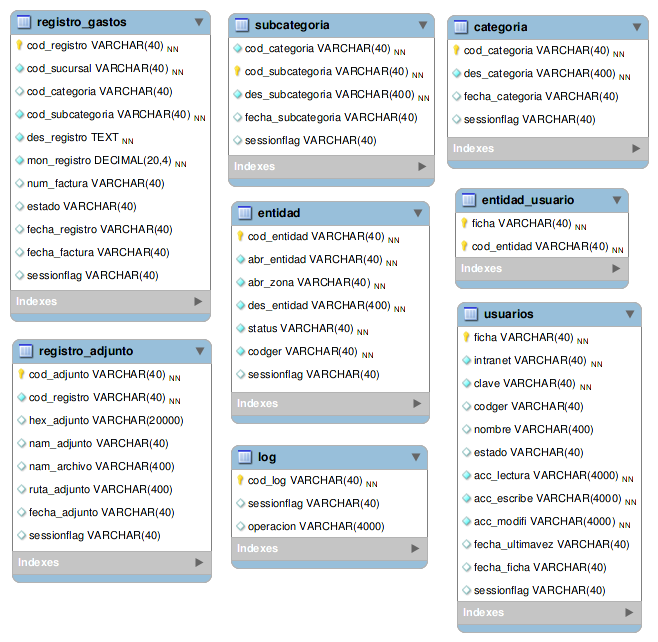
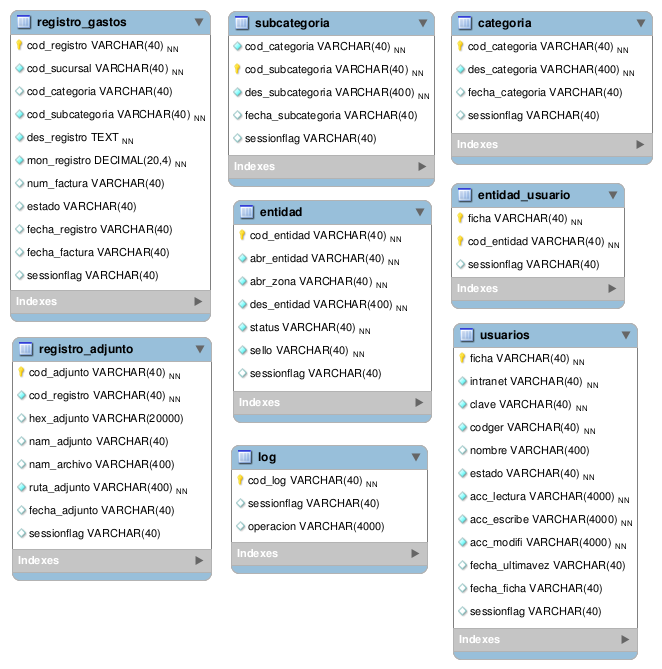
* terminada #451 cierra #451 finaliza #451 * cambio de refrerencia de sello a codger, dado no hay sellos para todas las entidades * la explicacion se da en la tarea #451 se altera la db apra que use cod_entidad como codger * se elimina codger de las tablas entidad y se adosa sello como un campo extr

diff --git a/sysgastosweb/simplegastoswebphp/appweb/controllers/cargargastover.php b/sysgastosweb/simplegastoswebphp/appweb/controllers/cargargastover.php
@@ -74,7 +74,7 @@ class Cargargastover extends CI_Controller {
 		/* cargar y listaar las UBIUCACIONES que se usaran para registros */
 			$sqlentidad = "
 			select
-			 abr_entidad, abr_zona, des_entidad, codger,
+			 abr_entidad, abr_zona, des_entidad, 
 			 ifnull(cod_entidad,'99999999999999') as cod_entidad,      -- YYYYMMDDhhmmss
 			 ifnull(des_entidad,'sin_descripcion') as des_entidad
 			from entidad
@@ -119,7 +119,7 @@ class Cargargastover extends CI_Controller {
 		$this->load->helper('url');
 		$sqlreportegasto = "SELECT
               `registro_gastos`.`cod_registro`, `registro_adjunto`.`cod_adjunto`,
-              `registro_gastos`.`cod_sucursal`,
+              `registro_gastos`.`cod_entidad`,
               `registro_gastos`.`cod_categoria`, `registro_gastos`.`cod_subcategoria`,
               `categoria`.`des_categoria`, `subcategoria`.`des_subcategoria`,
               `registro_gastos`.`des_registro`, `registro_gastos`.`mon_registro`,
@@ -138,7 +138,7 @@ class Cargargastover extends CI_Controller {
             LEFT JOIN
              `categoria` ON  `categoria`.`cod_categoria` = `registro_gastos`.`cod_categoria`
             LEFT JOIN
-             `entidad` ON  `entidad`.`cod_entidad` = `registro_gastos`.`cod_sucursal`
+             `entidad` ON  `entidad`.`cod_entidad` = `registro_gastos`.`cod_entidad`
             WHERE
              ifnull(`registro_gastos`.`cod_registro`,'') <> '' and `registro_gastos`.`cod_registro` <> ''
             ";
@@ -160,7 +160,7 @@ class Cargargastover extends CI_Controller {
 	    $crud->basic_model->set_custom_query($sqlreportegasto);
 		//$crud->columns('cod_categoria','des_categoria','fecha_categoria','sessionflag');
 		$crud->display_as('cod_registro','Cod. Gasto')
-			 ->display_as('cod_sucursal','Cod. Sello')
+			 ->display_as('cod_entidad','Cod. CodGer')
 			 ->display_as('cod_categoria','Cod. Categoria')
 			 ->display_as('cod_subcategoria','Cod. Concepto')
 			 ->display_as('des_categoria','Categoria')
@@ -170,7 +170,7 @@ class Cargargastover extends CI_Controller {
 			 ->display_as('num_factura','Factura (opt)')
 			 ->display_as('sessionflag','Modificado');
 		$crud->set_subject('Registros');
-	    $crud->edit_fields('des_registro','mon_registro','num_factura','cod_registro','cod_sucursal','cod_categoria','cod_subcategoria','sessionflag');
+	    $crud->edit_fields('des_registro','mon_registro','num_factura','cod_registro','cod_entidad','cod_categoria','cod_subcategoria','sessionflag');
 	    $crud->unset_add();
 	    $crud->unset_delete();
 		$currentState = $crud->getState();
@@ -187,7 +187,7 @@ class Cargargastover extends CI_Controller {
 		else if ($currentState == 'edit')
 		{
 			$crud->field_type('cod_registro', 'readonly');
-			$crud->field_type('cod_sucursal', 'readonly');
+			$crud->field_type('cod_entidad', 'readonly');
 			$crud->field_type('cod_categoria', 'readonly');
 			$crud->field_type('cod_subcategoria', 'readonly');
 			$crud->set_rules('des_registro', 'Descripcion', 'trim|required|alphanumeric');

diff --git a/sysgastosweb/simplegastoswebphp/appweb/controllers/cargargasto.php b/sysgastosweb/simplegastoswebphp/appweb/controllers/cargargasto.php
@@ -73,7 +73,7 @@ class Cargargasto extends CI_Controller {
 		/* cargar y listaar las UBIUCACIONES que se usaran para registros */
 		$sqlentidad = "
 		select
-		 abr_entidad, abr_zona, des_entidad, codger,
+		 abr_entidad, abr_zona, des_entidad, 
 		 ifnull(cod_entidad,'99999999999999') as cod_entidad,      -- YYYYMMDDhhmmss
 		 ifnull(des_entidad,'sin_descripcion') as des_entidad
 		from entidad
@@ -149,7 +149,7 @@ class Cargargasto extends CI_Controller {
             $sqlregistrargasto = "
             INSERT INTO registro_gastos
 			(
-			   cod_registro, cod_sucursal,
+			   cod_registro, cod_entidad,
 			   cod_subcategoria, cod_categoria,
 			   des_registro,
 			   mon_registro,
@@ -204,7 +204,7 @@ class Cargargasto extends CI_Controller {
 			SELECT
 			  registro_gastos.cod_registro,
 			  registro_adjunto.cod_adjunto,
-			  registro_gastos.cod_sucursal,
+			  registro_gastos.cod_entidad,
 			  registro_gastos.cod_categoria,
 			  registro_gastos.cod_subcategoria,
 			  registro_gastos.des_registro,
@@ -230,7 +230,7 @@ class Cargargasto extends CI_Controller {
 			LEFT JOIN	 gastossystema.categoria
 			ON	 categoria.cod_categoria = registro_gastos.cod_categoria
 			LEFT JOIN	 gastossystema.entidad
-			ON	 entidad.cod_entidad = registro_gastos.cod_sucursal
+			ON	 entidad.cod_entidad = registro_gastos.cod_entidad
 			WHERE	 ifnull(registro_gastos.cod_registro,'') <> '' and registro_gastos.cod_registro <> ''
 			ORDER BY cod_registro DESC	LIMIT 5";
 //--			 and cod_registro = '".$cod_registro." '
@@ -250,7 +250,7 @@ class Cargargasto extends CI_Controller {
 			'Adjunto'
 			// 	'fecha_factura', 	'fecha_adjunto',	'sessionflag'	'num_factura',
 			//	'hex_adjunto', 'nam_adjunto',// TODO : link para visualizar
-			//'cod_registro', 'cod_adjunto', 'cod_sucursal', 'cod_categoria', 'cod_subcategoria'
+			//'cod_registro', 'cod_adjunto', 'cod_entidad', 'cod_categoria', 'cod_subcategoria'
 		);
 		$resultadocargatablatxtmsg = "| cod_producto \t| can_despachar \t| des_producto \t\t".PHP_EOL;
 		$resultadocargatabla = $resultadocarga->result_array();
@@ -266,7 +266,7 @@ class Cargargasto extends CI_Controller {
 			$rowtable['nam_adjunto']
 			// $rowtable['fecha_factura'], $rowtable['fecha_adjunto'], $rowtable['sessionflag'],$rowtable['num_factura'],
 			//$rowtable['hex_adjunto'], $rowtable['nam_adjunto'], // TODO: link para descargar / visualizar
-			//$rowtable['cod_registro'], $rowtable['cod_adjunto'], $rowtable['cod_sucursal'], $rowtable['cod_categoria'], $rowtable['cod_subcategoria']
+			//$rowtable['cod_registro'], $rowtable['cod_adjunto'], $rowtable['cod_entidad'], $rowtable['cod_categoria'], $rowtable['cod_subcategoria']
 			);
 
 /*			$resultadocargatablatxtmsg .=

diff --git a/sysgastosweb/simplegastoswebphp/appweb/controllers/admusuariosentidad.php b/sysgastosweb/simplegastoswebphp/appweb/controllers/admusuariosentidad.php
@@ -64,8 +64,8 @@ class admusuariosentidad extends CI_Controller {
 		$js_files = $output1->js_files + $output2->js_files;
 		$css_files = $output1->css_files + $output2->css_files;
 		$output = ""
-		."<h3>Usuarios</h3>".$output1->output
-		."<h3>Sucursales</h3>".$output2->output
+		."<h3>Administrar Usuarios</h3>".$output1->output
+		."<h3>Centro de Costos</h3>".$output2->output
 		."";
 
 		$this->_esputereport((object)array(
@@ -83,6 +83,7 @@ class admusuariosentidad extends CI_Controller {
 		$crud->display_as('ficha','Ficha/CI')
 			 ->display_as('nombre','Nombre')
 			 ->display_as('intranet','Intranet')
+			 ->display_as('sucursal','Centro de Costo')
 			 ->display_as('fecha_ficha','Creado')
 			 ->display_as('fecha_ultimavez','Ultima vez')
 			 ->display_as('acc_lectura','Accede a')
@@ -130,7 +131,7 @@ class admusuariosentidad extends CI_Controller {
 		$crud->set_table('entidad');
 		$crud->set_subject('Sucursal');
 		$crud->columns('abr_entidad','abr_zona','cod_entidad','des_entidad','status','nam_usuario','codger','sessionflag');
-		$crud->display_as('cod_entidad','Cod. Sello')
+		$crud->display_as('cod_entidad','Cod. Centro')
 			 ->display_as('abr_entidad','Cod. Siglas')
 			 ->display_as('abr_zona','Cod. Zona')
 			 ->display_as('des_entidad','Nombre')
@@ -143,7 +144,7 @@ class admusuariosentidad extends CI_Controller {
 		$currentState = $crud->getState();
 		if($currentState == 'add')
 		{
-			$crud->set_rules('cod_entidad', 'Sello', 'trim|required|numeric');
+			$crud->set_rules('cod_entidad', 'Centro de Costo (codger)', 'trim|required|numeric');
 			$crud->set_rules('abr_entidad', 'Siglas', 'trim|required|alphanumeric');
 		}
 		else if ($currentState == 'edit')

diff --git a/sysgastosweb/simplegastoswebphp/appweb/views/cargargastover.php b/sysgastosweb/simplegastoswebphp/appweb/views/cargargastover.php
@@ -11,7 +11,7 @@
 
 	// si variables vacias llenar con datos mientras tanto
 	if( !isset($accionejecutada) ) $accionejecutada = 'cargardatosver';
-	if( !isset($list_entidad) ) $list_entidad = array('cod_sucursal' => 'nombregalpon','cod_sucursal2' => 'nombregalpon2');
+	if( !isset($list_entidad) ) $list_entidad = array('cod_entidad' => 'nombregalpon','cod_entidad2' => 'nombregalpon2');
 	if( !isset($list_categoria) ) $list_categoria = array('cod_categoria' => 'Varios','cod_categoria2' => 'Gastos diversos');
 	if( !isset($list_subcategoria) ) $list_subcategoria = array('cod_categoria' => 'Varios','cod_categoria2' => 'Gastos diversos');
 	// detectar que mostrar segun lo enviado desde el controlador
@@ -25,7 +25,7 @@
 			$this->table->add_row('Filto Fecha desde:',form_input($valoresinputfechaini).br().PHP_EOL);
 			$this->table->add_row('Filto Fecha hasta:',form_input($valoresinputfechafin).br().PHP_EOL);
 			$this->table->add_row('Por Categoria/Concepto:', form_dropdown('cod_subcategoria', $list_subcategoria).br().PHP_EOL);
-			$this->table->add_row('Pertenencia o sucursal:', form_dropdown('cod_entidad', $list_entidad).'(automatico)'.br().PHP_EOL );
+			$this->table->add_row('Por Centro de Costo:', form_dropdown('cod_entidad', $list_entidad).'(automatico)'.br().PHP_EOL );
 			$this->table->add_row('Monto menor o igual', form_input('mon_registroigual','').br().PHP_EOL);
 			$this->table->add_row('Monto mayor o igual', form_input('mon_registromayor','').br().PHP_EOL);
 			$this->table->add_row('Descripcion del detalle :', form_input('des_registrolike','').br().PHP_EOL);

diff --git a/sysgastosweb/simplegastoswebphp/appweb/views/cargargasto.php b/sysgastosweb/simplegastoswebphp/appweb/views/cargargasto.php
@@ -8,7 +8,7 @@
 
 	// si variables vacias llenar con datos mientras tanto
 	if( !isset($accionejecutada) ) $accionejecutada = 'cargardatos';
-	if( !isset($list_entidad) ) $list_entidad = array('cod_sucursal' => 'nombregalpon','cod_sucursal2' => 'nombregalpon2');
+	if( !isset($list_entidad) ) $list_entidad = array('cod_entidad' => 'nombregalpon','cod_entidad2' => 'nombregalpon2');
 	if( !isset($list_categoria) ) $list_categoria = array('cod_categoria' => 'Varios','cod_categoria2' => 'Gastos diversos');
 	if( !isset($list_subcategoria) ) $list_subcategoria = array('cod_categoria' => 'Varios','cod_categoria2' => 'Gastos diversos');
 	// detectar que mostrar segun lo enviado desde el controlador
@@ -21,7 +21,7 @@
 		$this->table->clear();
 			$this->table->add_row('Fecha del gasto:',form_input($valoresinputfecha).'(no mas de 3 dias atras)'.br().PHP_EOL);
 			$this->table->add_row('Categoria - Concepto:', form_dropdown('cod_subcategoria', $list_subcategoria).br().PHP_EOL);
-			$this->table->add_row('Pertenencia o sucursal:', form_dropdown('cod_entidad', $list_entidad).'(automatico)'.br().PHP_EOL );
+			$this->table->add_row('Centro de Costo:', form_dropdown('cod_entidad', $list_entidad).'(automatico)'.br().PHP_EOL );
 			$this->table->add_row('Monto adjudicar', form_input('mon_registro','').br().PHP_EOL);
 			$this->table->add_row('Descripcion del detalle :', form_input('des_registro','').br().PHP_EOL);
 			$this->table->add_row('Adjuntar documento', form_upload(array('name'  => 'nam_archivo', 'id'=>'nam_archivo')).br().PHP_EOL );

diff --git a/sysgastosweb/simplegastoswebphp/appweb/views/manejousuarios.php b/sysgastosweb/simplegastoswebphp/appweb/views/manejousuarios.php
@@ -12,7 +12,7 @@
 	else
 	{
 		$htmlformaattributos = array('name'=>'formulariomanejousuarios','class'=>'formularios','onSubmit'=>'return validageneric(this);');
-		echo "<p>CUIDADO: no recarge o ejecute acciones al azar, use el menu arriba</p>";
+		echo "<h4>ADVERTENCIA: debe cambia la clave para activarse, adicional si el departamento Gastos no le da acceso no podra entrar.</h4>";
 		echo form_open('manejousuarios/verificarintranet', $htmlformaattributos) . PHP_EOL;
 		echo 'Usuario:'.form_input('nombre','').PHP_EOL;
 		echo 'Clave :'.form_password('contrasena','').PHP_EOL;
